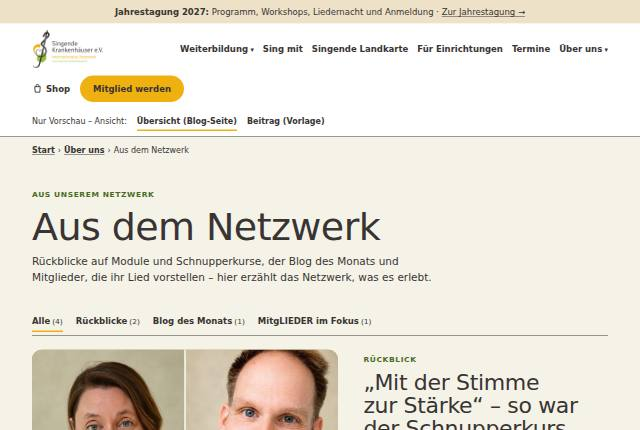
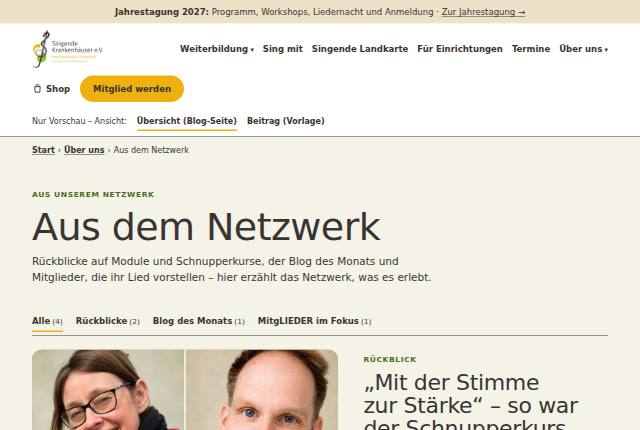
skh-design: Monika Ananda Wiese überall mit ihrem anderen Foto (Korrektur Tom)
Claude-Session: https://claude.ai/code/session_017FLSxz8BCNSE19ZVdCLY1z

Changed region(s): [[0.0312, 0.786, 0.3125, 1.0]]

diff --git a/skh-design/SEITE-netzwerk.md b/skh-design/SEITE-netzwerk.md
@@ -224,7 +224,7 @@ Alle Fotos stammen von der Webseite (Wix-Medien). In Wix die **Originale** verwe
 
 | Datei (Vorschau) | Wo | Motiv | Herkunft |
 |---|---|---|---|
-| `nw-schnupperkurs.jpg` (**neu**) | Beitragsbild Schnupperkurs (Karte, Startseite) | die Porträts von Monika Ananda Wiese und Jan Henning Foh nebeneinander | zusammengesetzt aus `dz-wiese.jpg` und `dz-foh.jpg` (neue Porträtserie, `SEITE-dozenten.md`, Abschnitt 5) |
+| `nw-schnupperkurs.jpg` (**neu**) | Beitragsbild Schnupperkurs (Karte, Startseite) | die Porträts von Monika Ananda Wiese und Jan Henning Foh nebeneinander | zusammengesetzt aus Monikas Foto (Wix `7530fd_e6e0a094…png`, Korrektur Tom 26.09.2026) und `dz-foh.jpg` (neue Porträtserie) – in Affinity nachbauen oder im Beitrag zwei Bilder nebeneinander |
 | `dz-wiese.jpg`, `dz-foh.jpg` | im Beitrag Schnupperkurs, zwei Porträts | Porträts | wie Dozent:innen-Seite |
 | `aktuell-martina-uwe.jpg` | Beitragsbild Sommerakademie | Martina Baumann mit Gouni, Uwe Loda mit Zither | Startseite, schon vorhanden |
 | `nw-gouni.jpg` (**neu**) | im Beitrag Sommerakademie | Hände an den Saiten der Gouni | Startseite, Wix `7530fd_789cae41…png` („Martina und Uwe.png“), verkleinert auf 800 px |
@@ -233,9 +233,10 @@ Alle Fotos stammen von der Webseite (Wix-Medien). In Wix die **Originale** verwe
 
 **Warum hier Fotos „doppelt“ vorkommen:** Das Beitragsbild erscheint absichtlich überall, wo der Beitrag angezeigt wird
 (Blog-Seite, Startseite, Mitglied sein) – das macht Wix Blog automatisch, es ist dieselbe Datei, keine Kopie.
-Für die Schnupperkurs-Karte wurden die Porträts aus der **neuen** Porträtserie genommen statt der älteren, uneinheitlichen
-Fotos der Live-Seite (`7530fd_e6e0a094…png`, `7530fd_98176106…png`); eine pHash-Prüfung ergab: das ältere Foto von Jan Henning Foh
-ist fast gleich wie `dz-foh.jpg` (Abstand 12), deshalb wurde es nicht zusätzlich gespeichert.
+Für die Schnupperkurs-Karte zuerst beide Porträts aus der neuen Porträtserie. **Korrektur Tom (26.09.2026):** Für Monika Ananda Wiese
+wird an allen Stellen ihr Foto von der Live-Seite verwendet (`7530fd_e6e0a094…png`, `SEITE-dozenten.md`, Abschnitt 5). Für Jan Henning
+Foh bleibt `dz-foh.jpg`; eine pHash-Prüfung ergab: sein älteres Foto (`7530fd_98176106…png`) ist fast gleich (Abstand 12), deshalb
+wurde es nicht zusätzlich gespeichert.
 **Einwilligungen:** Die Personen stehen schon mit diesen Fotos auf der Webseite. Die neue Verwendung (dauerhaft im Archiv, als
 Karte auf mehreren Seiten, beim Teilen in Social Media) vor dem Übertragen kurz bestätigen lassen (Abschnitt 7, Punkt 3).
 

diff --git a/skh-design/SEITE-dozenten.md b/skh-design/SEITE-dozenten.md
@@ -204,6 +204,12 @@ Bildvergleich geprüft: keines ist auf einer anderen Foto-Vorschau verwendet. In
 `weiterbildung-monika-ananda` (880 × 1100). Sichtbar anders als vorher: Elke Wünnenberg (Über uns), Monika Ananda Wiese
 (Startseite), Sonja Heim (Für Einrichtungen), Vera Kimmig (Weiterbildung); die übrigen zeigten schon Fotos dieser Serie.
 
+**Ausnahme Monika Ananda Wiese (Korrektur Tom, 26.09.2026):** Auf Wunsch von Tom zeigt jede Stelle, an der sie auftaucht, **ihr
+anderes Foto** (lächelnd, Brille, grauer Mantel mit pinkfarbener Kapuze, heller Hintergrund) statt des Fotos aus der neuen Serie. Quelle:
+Startseite, Wix `7530fd_e6e0a094…png` (1122 × 1402, von Tom geschickt). Neu erzeugt: `dz-wiese.jpg` (600 × 600, Dozent:innen-Karte),
+`weiterbildung-monika-ananda.jpg` (880 × 1100, Startseite), `nw-schnupperkurs.jpg` (Beitragsbild „Aus dem Netzwerk“). In Wix überall
+dieses Original verwenden.
+
 **Nicht verwendet:** die Einzelfotos von Katharina und Wolfgang Bossinger (Paarfoto stattdessen), die zwei
 Stockvideos hinter den Menuhin-Zitaten (Singende in einer Kirche; Klangschale im Gras – Wix-Medien `11062b_…` bzw. ohne
 Vereinsbezug).

diff --git a/skh-design/DESIGN-foto.md b/skh-design/DESIGN-foto.md
@@ -279,7 +279,7 @@ wo das Foto steht:
 | `frage1-singleiterin.jpg` | Frage 1 (Singleiter:in werden) | Singleiterin singt mitten in der Gruppe |
 | `frage2-mitglieder.jpg` | Frage 2 (Mitglied werden) | lachende Mitgliedergruppe |
 | `frage3-singgruppe.jpg` | Frage 3 (Singgruppe finden) | Singkreis von hinten |
-| `weiterbildung-monika-ananda.jpg` | Weiterbildung | Porträt Dozentin Monika Ananda Wiese (seit 26.09.2026 aus der neuen Porträtserie, `SEITE-dozenten.md`, Abschnitt 5) |
+| `weiterbildung-monika-ananda.jpg` | Weiterbildung | Porträt Dozentin Monika Ananda Wiese (seit 26.09.2026 ihr Foto mit Brille und grauem Mantel – Korrektur Tom, Ausnahme von der neuen Porträtserie, `SEITE-dozenten.md`, Abschnitt 5) |
 | `nw-schnupperkurs.jpg`, `aktuell-martina-uwe.jpg`, `aktuell-alwine.jpg` (und `aktuell-nicole.jpg`, wenn der Fokus-Beitrag unter den drei neuesten ist) | Aktuelles | Beitragsbilder – kommen in Wix automatisch aus dem Blog (`SEITE-netzwerk.md`, Abschnitt 5) |
 
 In Wix sind diese Fotos bereits in der Medienverwaltung – dort das **Original** verwenden, nicht
